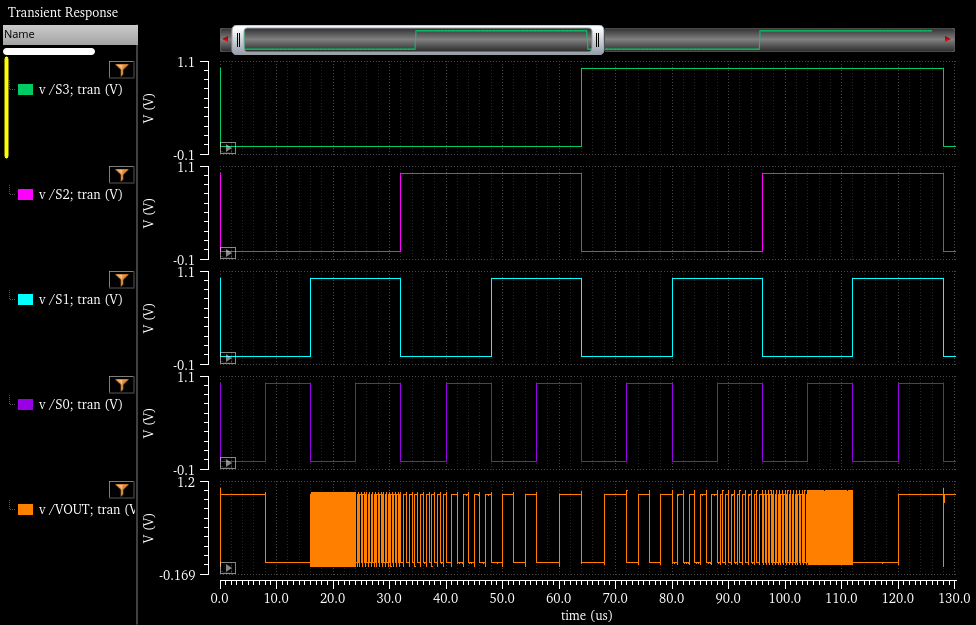
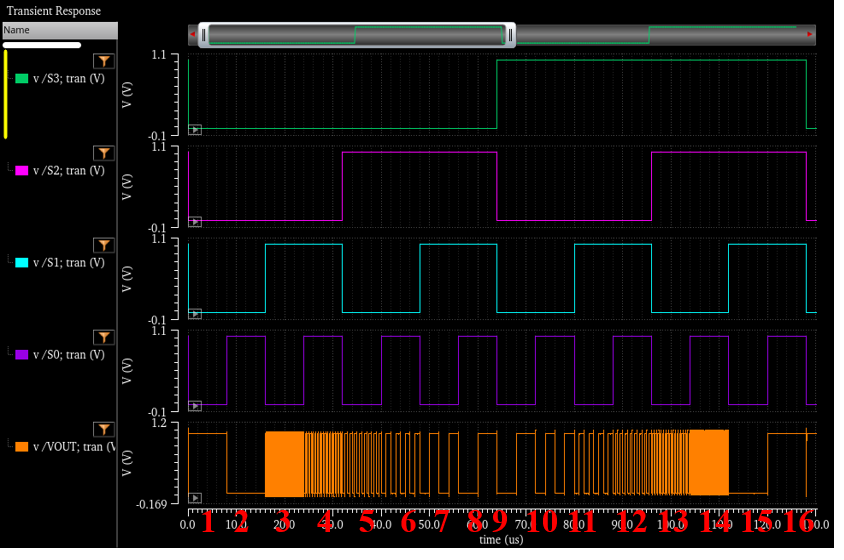
21mux

Changed region(s): [[0.0, 0.0, 1.0, 1.0]]

diff --git a/md/md_DC/161mux.md b/md/md_DC/161mux.md
@@ -1,0 +1,120 @@
+### 1. 16x1 MUX Logic & Switch
+
+<small>[1.1. 16x1 MUX Schematic](#11-16x1-mux-schematic)</small>
+
+<small>[1.2. Simulation](#12-simulation)</small>
+
+<small>[1.3. 16x1 MUX Layout](#13-16x1-mux-layout)</small>
+
+---
+
+#### 1.1. 16x1 MUX Schematic
+
+cell view에서 이름은 각각 `16x1 MUX Logic`, `16x1 MUX Switch`, Type은 `schematic`을 선택하고 회로도를 그린다.
+
+Logic은 1개의 2x1 MUX Logic, 2개의 8x1 MUX Logic Symbol을 가져와 구성한다.
+
+Switch는 4개의 NOT gate와 64개 TR로 구성한다.
+
+완성된 회로도는 다음 사진과 같다.
+
+<table>
+  <tr>
+    <td align="center">
+      <img src="./img/161mux_logic_01.png" width="600">
+    </td>
+    <td align="center">
+      <img src="./img/161mux_switch_01.png" width="600">
+    </td>
+  </tr>
+</table>
+
+`Create`의 `From Cellview`를 클릭하고, 각각 schematic에 대한 symbol을 생성한다.  
+
+<table>
+  <tr>
+    <td align="center">
+      <img src="./img/161mux_logic_02.png" width="600">
+    </td>
+    <td align="center">
+      <img src="./img/161mux_switch_02.png" width="600">
+    </td>
+  </tr>
+</table>
+
+
+#### 1.2. Simulation
+
+Symbol을 사용하여 TEST 파일을 만든다.
+
+이때, VINA = 1V, VINB = 0V와 VINC~VINP, S0~S3은 vpulse를 설정하여 VOUT의 ON OFF를 확인한다.
+
+`Launch`의 `ADE L`에서 Schematic에 대한 simulation을 진행한다.
+
+1. `Analyses`에서 입력한 vpulse 주기의 2~3배로 `Tran` 설정을 진행한다.
+
+2. `Results` - `Direct Plot` - `Main Form`에서 그래프 결과를 확인한다.
+
+3. vpulse ON-OFF에 따른 그래프 VOUT 결과를 확인한다
+
+다음과 같이 Logic과 Switch가 같은 그래프 ON-OFF를 보여주는 것을 확인한다.
+
+<img src="./img/161mux_logic_03.png" width="70%"> <br>
+
+
+#### 1.3. 8x1 MUX Layout
+
+각각의 Schematic을 기반으로 Layout을 진행한다. 
+
+먼저 `Options`의 `Display`에서 x와 y의 `Snap Spacing`을 `0.005`로 수정한다.
+
+전체 Layout은 다음과 같다.
+
+<table align="center">
+  <tr>
+    <td align="center">
+      <img src="./img/161mux_logic_04.png" width="80%">
+    </td>
+    <td align="center">
+      <img src="./img/161mux_switch_03.png" width="80%">
+    </td>
+  </tr>
+</table>
+
+가로 세로 사이즈는 최소화한다.
+
+**Logic Size** : 67.63 * 10.79(um)
+
+**Switch Size** : 26.685 * 11.62(um)
+
+
+마지막으로 Cadence에서 제공하는 Assura 도구로 Schematic과 Layout에 대한 오류를 확인한다.
+  -1. `Assura`에서 `DRC(Design Rule Check)`를 진행한다. DRC는 gpdk090을 기준으로 제조 공정 규칙을 준수하는지 확인한다.
+  -2. `Assura`에서 `LVS(Layout Versus Schematic)`를 진행한다. Schematic과 Layout 간의 회로 연결 및 설계 오류가 없는지 확인한다.
+
+<table align="center">
+  <tr>
+    <td align="center">
+      <img src="./img/161mux_logic_05.png" width="60%">
+    </td>
+    <td align="center">
+      <img src="./img/161mux_switch_04.png" width="60%">
+    </td>
+  </tr>
+  <tr>
+    <td align="center">
+      <img src="./img/161mux_logic_06.png" width="60%">
+    </td>
+    <td align="center">
+      <img src="./img/161mux_switch_05.png" width="60%">
+    </td>
+  </tr>
+</table>
+
+이전에 작업한 2~8까지의 MUX를 모두 포함하기 때문에, 16x1 MUX로 DRC와 LVS의 이상없음을 증명할 수 있다.
+
+
+---
+
+[목차](../../README.md)
+
